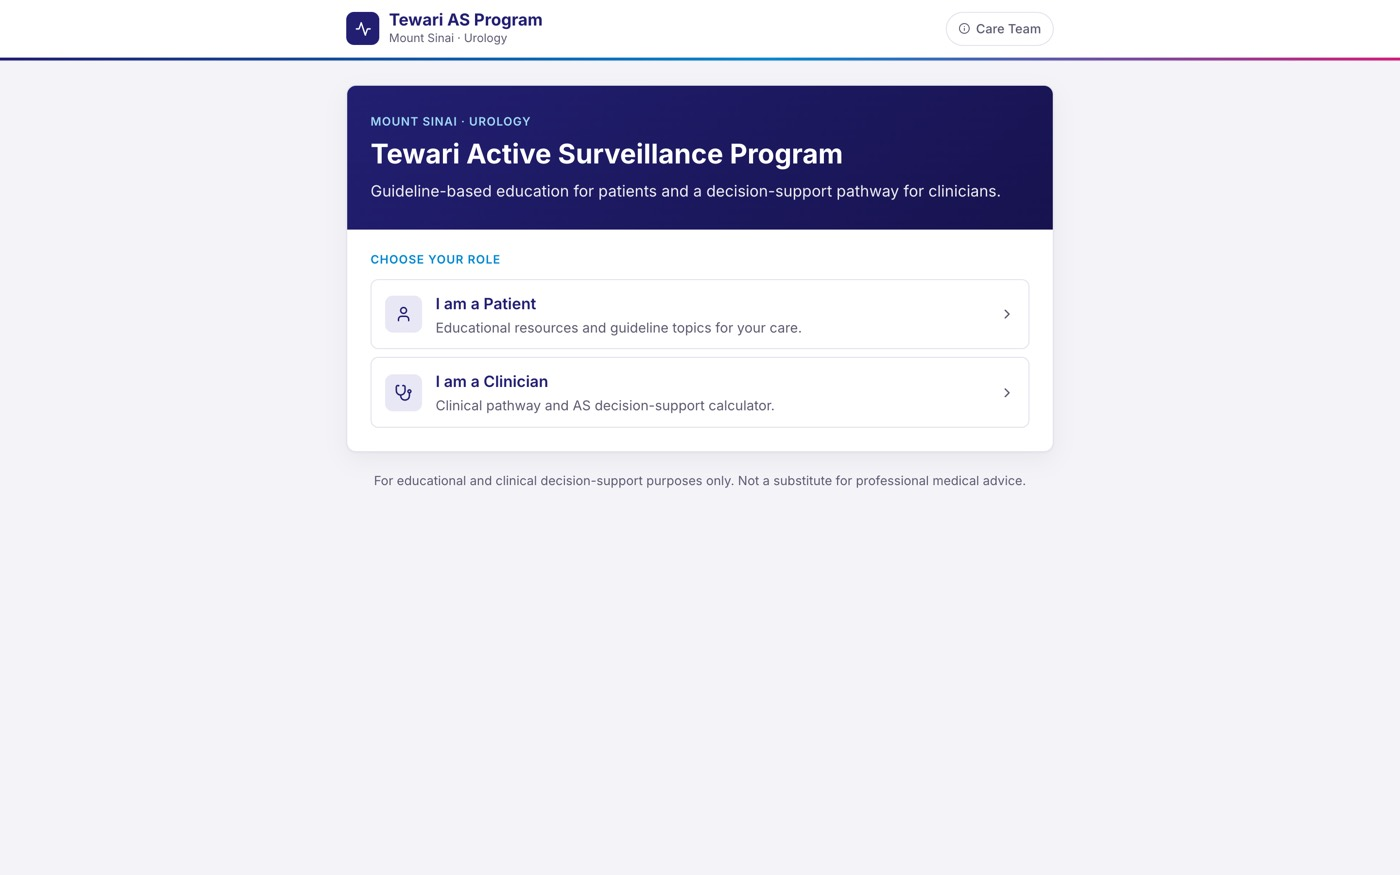
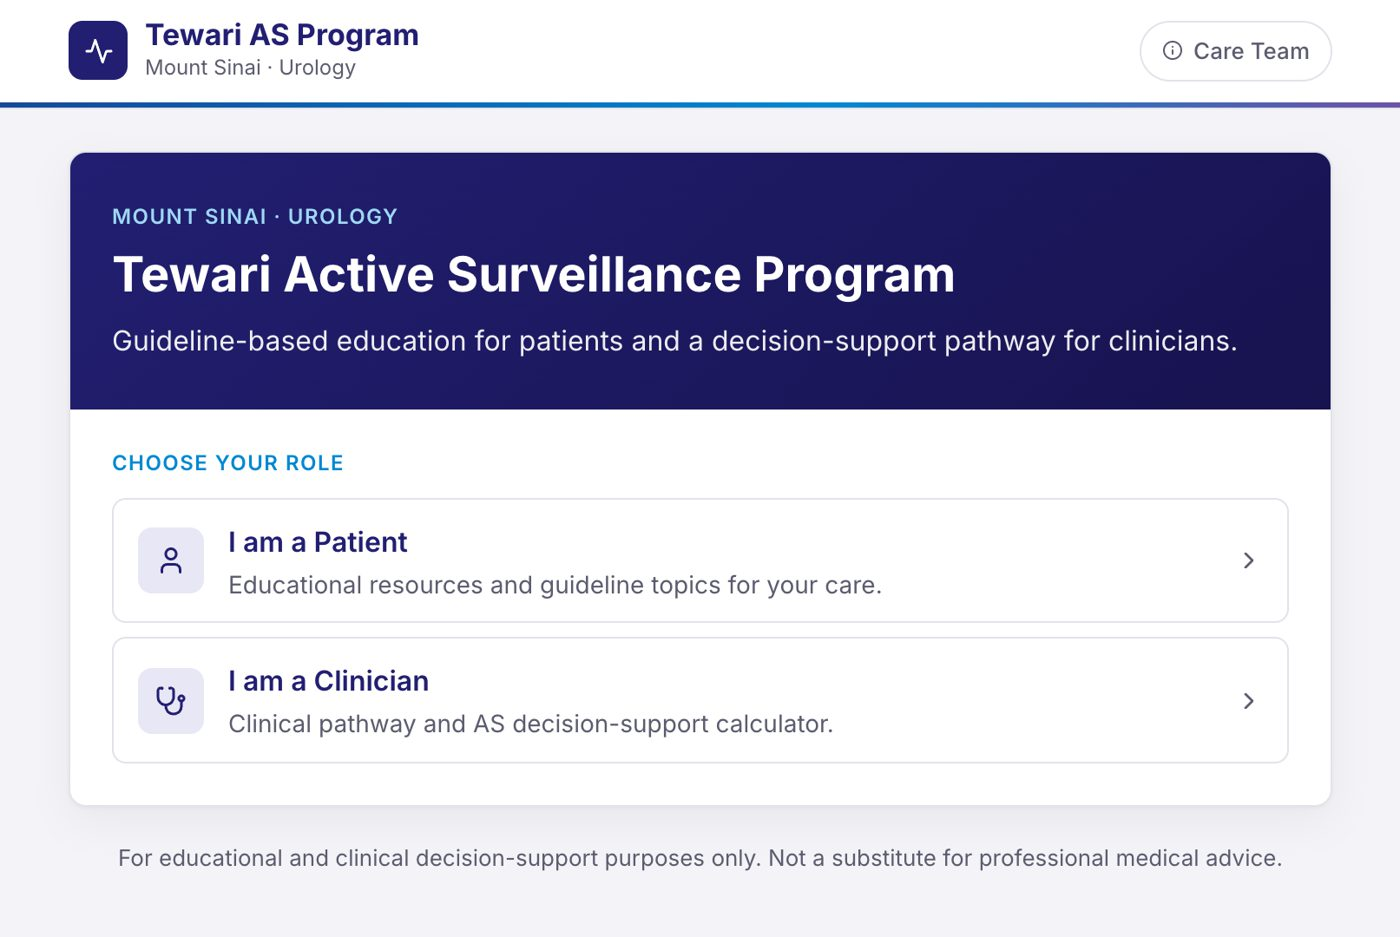
Use each tool's welcome screen as its project thumbnail
Thumbnails on the projects page now show each tool's welcome screen.
COMPASS's is cropped above its case and model counts, and it also opens
the COMPASS walkthrough. The AS Tool welcome screen is cropped to its card.

diff --git a/projects/index.md b/projects/index.md
@@ -10,7 +10,7 @@ The following projects are under active development.
 
 ### ePSA — Electronic PSA Tool
 
-<img class="proj_thumb" src="{{ "/assets/img/projects/epsa/07-result.jpg" | relative_url }}" alt="">
+<img class="proj_thumb" src="{{ "/assets/img/projects/epsa/01-welcome.jpg" | relative_url }}" alt="">
 
 An electronic decision-support tool built around PSA and clinical risk factors. ePSA helps clinicians and patients understand individualized risk at key decision points — from initial diagnosis through treatment selection and post-treatment surveillance.
 
@@ -24,7 +24,7 @@ An electronic decision-support tool built around PSA and clinical risk factors. 
 
 ### e-Biopsy
 
-<img class="proj_thumb" src="{{ "/assets/img/projects/e-biopsy/05-result.jpg" | relative_url }}" alt="">
+<img class="proj_thumb" src="{{ "/assets/img/projects/e-biopsy/01-welcome.jpg" | relative_url }}" alt="">
 
 The next step after ePSA. For a man whose PSA was raised and who has had an MRI, e-Biopsy estimates the chance of a prostate cancer that needs treatment and helps him prepare for the biopsy conversation with his urologist. Three inputs (PSA, PI-RADS, and optionally prostate volume), a plain-language patient view, and a clinician view for several patients at once.
 
@@ -35,7 +35,7 @@ The next step after ePSA. For a man whose PSA was raised and who has had an MRI,
 
 ### COMPASS Digital Twin
 
-<img class="proj_thumb" src="{{ "/assets/img/projects/compass/03-predictions.jpg" | relative_url }}" alt="">
+<img class="proj_thumb" src="{{ "/assets/img/projects/compass/00-welcome.jpg" | relative_url }}" alt="">
 
 A patient-specific 3D digital twin of the prostate and surrounding anatomy, reconstructed from pre-operative MRI. COMPASS gives surgeons an interactive model of each patient's anatomy before they enter the OR — supporting surgical planning, nerve-sparing decisions, and trainee education.
 
@@ -45,7 +45,7 @@ A patient-specific 3D digital twin of the prostate and surrounding anatomy, reco
 
 ### Active Surveillance Tool
 
-<img class="proj_thumb" src="{{ "/assets/img/projects/active-surveillance/05-result.jpg" | relative_url }}" alt="">
+<img class="proj_thumb" src="{{ "/assets/img/projects/active-surveillance/01-welcome.jpg" | relative_url }}" alt="">
 
 A clinical decision-support tool for men with low- to intermediate-risk prostate cancer on active surveillance. The tool tracks PSA trends, biopsy history, and imaging findings over time to help clinicians identify when a patient's disease trajectory warrants reclassification and intervention — reducing both over-treatment and missed progression.
 

diff --git a/projects/compass.md b/projects/compass.md
@@ -27,6 +27,10 @@ The built-in sample case "High-risk GG4, PSMA-heavy" from the public preview.
 
 <div class="walkthrough">
 <figure class="walk-step">
+  <a href="{{ "/assets/img/projects/compass/00-welcome.jpg" | relative_url }}" target="_blank" rel="noopener"><img src="{{ "/assets/img/projects/compass/00-welcome.jpg" | relative_url }}" alt="Welcome" loading="lazy"></a>
+  <figcaption><strong>Welcome.</strong> The public preview opens with a sample case; the full tool is for Mount Sinai clinicians.</figcaption>
+</figure>
+<figure class="walk-step">
   <a href="{{ "/assets/img/projects/compass/01-demographics.jpg" | relative_url }}" target="_blank" rel="noopener"><img src="{{ "/assets/img/projects/compass/01-demographics.jpg" | relative_url }}" alt="Demographics and labs" loading="lazy"></a>
   <figcaption><strong>Demographics and labs.</strong> Age, PSA, prostate volume, and optional genomic and functional scores.</figcaption>
 </figure>
